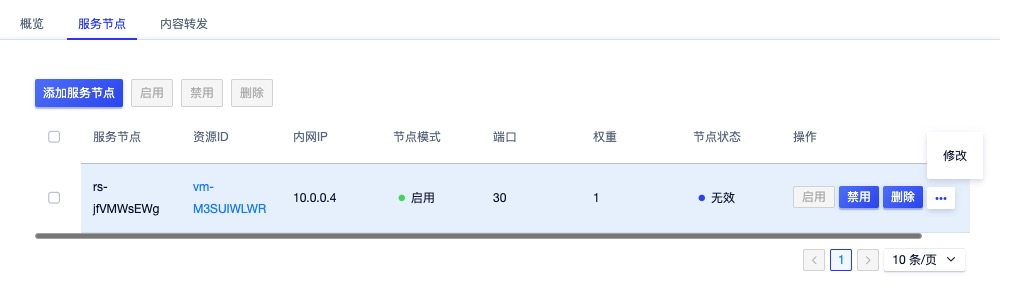
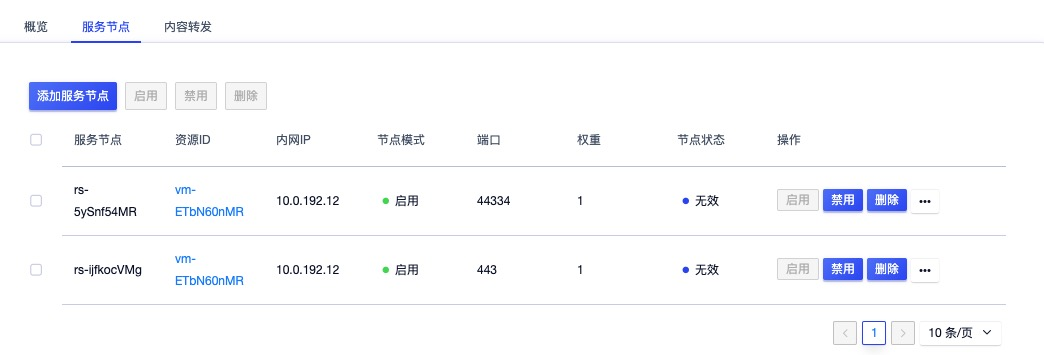
更新负载均衡操作手册

diff --git a/UserGuide/10 负载均衡.md b/UserGuide/10 负载均衡.md
@@ -283,29 +283,51 @@ VServer 即负载均衡的监听器，主要承载负载均衡业务网络的四
   * HTTP 健康检查路径：默认为 `/` ，可输入 Linux 格式的路径，只能使用字母、数字、和-/.%?#& 这些字符，必须以 `/` 开头，例如 `/data` ；
   * HTTP 健康域名：检查时校验请求的 HOST 字段中的域名，可输入标准域名用于校验请求 host 字段中携带的域名。
 
-  > HTTP 健康检查中的域名作用：某些应用服务器会对请求中的 host 字段做校验，即要求请求头中必须存在 host 字段。若在健康检查中配置了域名，则负载均衡会将域名配置到 host 字段中，并在健康检查时携带域名对后端服务节点进行检查，若健康检查请求被服务节点拒绝，则健康检查失败，即代表服务节点状态为异常；若应用服务器需要校验请求的host字段，则需要配置相关域名，确保健康检查正常工作。
+> HTTP 健康检查中的域名作用：某些应用服务器会对请求中的 host 字段做校验，即要求请求头中必须存在 host 字段。若在健康检查中配置了域名，则负载均衡会将域名配置到 host 字段中，并在健康检查时携带域名对后端服务节点进行检查，若健康检查请求被服务节点拒绝，则健康检查失败，即代表服务节点状态为异常；若应用服务器需要校验请求的host字段，则需要配置相关域名，确保健康检查正常工作。
 
 创建过程中 VServer 的资源状态为“创建中”，待状态更新为“运行”即代表创建成功，用户可通过 VServer 列表及详情查看已添加的 HTTP 监听器，并可查看 VServer 下所有服务节点的健康状态。
 
 #### 10.3.1.4 添加 HTTPS 监听器
 
-
-
-
-
-内容转发规则是指在七层 HTTP 负载均衡服务模式下，根据请求的域名和 URL 进行精准的请求分地，请匹配的 URL 转发至规则指定的服务节点。
-
-
-
-
-
-
+用户为负载均衡实例创建一个基于 HTTP 协议的监听器，提供基于 HTTPS 协议的负载均衡业务服务，本文以创建基于 SSL 证书加密的 `HTTPs:443` （WEB）服务为例进行创建。用户可通过负载均衡详情页面 VServer 左侧导航栏的【添加】进入 VServer 监听器的创建向导页面，如下图所示：
 
 ![httpsvs](httpsvs.png)
 
+根据向导页面配置 VServer 监听器，包括协议、端口、SSL 解析模式、服务器证书、客户端证书、负载均衡算法、会话保持、连接空闲超时及健康检查：
+
+* 监听协议：负载均衡业务的网络协议，支持 TCP、UDP、HTTP、HTTPS ，本示例中选择 HTTPS 。
+
+* 端口：负载均衡业务对外或对内提供服务时用来接收请求的应用端口，端口范围为 `1~65535` ，本示例使用 443 端口，用于提供基于 HTTPS 协议且使用 SSL 证书加密认证的高安全、高可用 WEB 服务。
+
+  > 323、9102、9103、9104、9105、60909、60910 等端口被占用，在任何协议下均不可使用。
+
+* SSL 解析模式：HTTPS 协议的 SSL 证书认证的解析模式，支持单向认证和双向认证，通常选择单向认证。
+
+  * 单向认证：由网站服务端提供  SSL 证书并进行身份验证，保证 HTTPS 网站的数据安全性，任何访问网站的用户无需拥有 CA 证书即可随时访问网站；
+  * 双向认证：网站服务端和用户双方均需提供 SSL 证书，只有提供 CA 证书的客户端才允许访问网站。
+
+* 服务器证书：用户证明服务器的身份，HTTPS 检查服务器发送的证书是否是由自己信赖的中心签发。
+  * 部署并配置于负载均衡服务器中，为负载均衡后端服务节点的网站提供 SSL 服务器证书及验证。
+  * 在创建时需提前上传服务器证书到平台，可通过新建服务器证书进行上传，详见 [SSL 证书管理](#_106-SSL-证书管理)。
+
+* 客户端证书：客户端CA公钥证书用于验证客户端证书的签发者，HTTPS 双向认证中需验证客户端提供的证书，才可成功建立连接。
+  * 网站服务器用 CA 证书验证客户端证书的签名，如果没有通过验证，则拒绝连接；
+  * 在创建时需提前上传客户端证书到平台，可通过新建客户端证书进行上传，详见 [SSL 证书管理](#_106-SSL-证书管理)。
+* 负载均衡算法：负载均衡分发请求到后端 RealServer 的调度计算策略，支持加权轮询、最小连接数和基于源地址三种算法。
+
+* 会话保持：针对 HTTP 和 HTTPS 协议，提供 Cookie 植入的方式进行会话保持，支持自动生成KEY 和自定义 KEY。选择自动生成 KEY 则由平台自动生成 Key 进行植入，选择自定义 Key 时需输入 KEY 值（只能输入数字、字母及_字符）。
+* 连接空闲超时：客户端至负载均衡的连接空闲超时限制，范围为 `1~86400` 秒。默认值为 60 秒，即在 60 秒内客户端对负载均衡一直无访问请求，平台会自动中断连接。
+* 健康检查：根据规则对后端服务节点进行健壮性检查，可自动检测并隔离服务不可用的后端服务节点。HTTP协议端检查和 HTTP 检查两种方式，其中 HTTP 检查支持按 URL 路径和请求 HOST 头中携带的域名进行健康检查，筛选健康节点。
+  * HTTP 健康检查路径：默认为 `/` ，可输入 Linux 格式的路径，只能使用字母、数字、和-/.%?#& 这些字符，必须以 `/` 开头，例如 `/data` ；
+  * HTTP 健康域名：检查时校验请求的 HOST 字段中的域名，可输入标准域名用于校验请求 host 字段中携带的域名。
+
+创建过程中 VServer 的资源状态为“创建中”，待状态更新为“运行”即代表创建成功，用户可通过 VServer 列表及详情查看已添加的 HTTPS 监听器，并可查看 VServer 下所有服务节点的健康状态。
+
+> VServer 监听器配置完成后，需添加业务虚拟机至监听器的服务节点中才可正常提供服务。 HTTP 和 HTTPS 协议的监听器可根据需求配置内容转发规则，根据请求的域名和 URL 进行精准的请求分发。
+
 ### 10.3.2 查看 VServer
 
-通过负载均衡详情页面进入 VServer 资源控制台，可查看当前负载均衡实例中已拥有 VServer 资源的列表，同时可通过点击列表上 的名称，进入 VServer 的详情页面，用于查看 VServer 的详细信息、监控信息、服务节点管理及内容转发管理（针对 HTTP 协议）。
+通过负载均衡详情页面进入 VServer 资源控制台，可查看当前负载均衡实例中已拥有 VServer 列表信息及所属服务节点的健康状况，并可通过列表名称切换 VServer 在右侧概览中查看 VServer 的基本信息及监控信息，同时可切换至服务节点和内容转发标签页进行服务节点和内容转发规则的管理。
 
 #### 10.3.2.1 VServer 列表
 
@@ -313,11 +335,11 @@ VServer 列表页面可查看当前负载均衡实例中已拥有的 VServer 资
 
 ![vslist](vslist.png)
 
-- 协议端口：当前 VServer 监听器协议和端口，是负载均衡处理请求的入口依据；
-- 状态：当前 VServer 监听器的服务状态，包括绿色、黄色和红色；
+- 协议端口：VServer 监听器协议和端口，是负载均衡处理请求的入口依据；
+- 状态：VServer 监听器的服务状态，包括绿色、黄色和红色；
   - 绿色：VServer 中添加的所有服务节点的健康状态均为正常；
   - 黄色：VServer 中添加的部分服务节节异常；
-  - 红色：VServer 中添加的所有服务节点健康状态为异常，即代表 VServer 停止工作。
+  - 红色：VServer 中添加的所有服务节点健康状态为异常，即代表 VServer 停止工作；若未添加任何服务节点，VServer 的默认状态为全部异常。
 
 在列表页可对 VServer 进行添加、修改及删除操作，通过点击 VServer 可在右侧查看当前 VServer 的详细信息，点击状态按钮可显示状态描述。
 
@@ -327,125 +349,125 @@ VServer 列表页面可查看当前负载均衡实例中已拥有的 VServer 资
 
 ![vsdetails](vsdetails.png)
 
-- 基本信息：当前 VServer 的基本信息，包括ID、协议端口、均衡算法、会话保持、会话保持 Key(若有)、连接空闲超时、健康检查、HTTP 检查路径(若有)、HTTP 检查域名(若有)、运行状态、VS 状态、告警模板及创建时间等信息，其中：
-  - 协议端口：当前 VServer 创建时指定的监听协议和端口；
-  - 负载均衡算法：当前 VServer 创建时指定的负载均衡算法，包括最小连接数、源地址、加权轮询；
-  - 会话保持：会话保持的开关和类型；
-    - 当监听器协议为 UDP 时，展示为开启或关闭；
-    - 当监听器协议为 HTTP 时 ，展示为关闭、自动生成KEY 、自定义 KEY ；
-    - 当监听器协议为 TCP 时，不显示会话保持信息。
-  - 会话保持 KEY ：HTTP 协议时选择并配置的会话保持 KEY ，仅当协议为 HTTP 时展示；
-  - 连接空闲超时： 负载均衡的连接空闲超时时间，单位为秒，默认值为 60s ；
-  - 健康检查：负载均衡的健康检查类型，当前 VServer 创建时指定的健康检查类型，包括端口检查和 HTTP 检查；
-  - HTTP 检查路径：HTTP 健康检查的路径。
-  - HTTP 检查域名：HTTP 健康检查时校验请求的 HOST 字段中的域名。
-  - 运行状态：当前 VServer 监听器的服务状态，包括全部异常、部分异常、全部正常；
-  - VS 状态：当前 VServer 监听器资源的状态，包括可用、更新中、已删除；
-  - 告警模板：当前 VServer 绑定的监控告警模板，若未绑定则展示为空。
-- 监控信息：当前 VServer 实例相关监控图表及信息，包括连接数、HTTP 2XX 、HTTP 3XX 、HTTP 4XX 、HTTP 5XX ，支持查看 1 小时、6 小时、12 小时、1 天及自定义时间的监控数据；
-- 服务节点：当前 VServer的服务节点生命周期管理，包括服务节点的添加、查看、启用、禁用及删除等；
-- 内容转发规则：当前 VServer 配置的内容转发规则生命周期管理，包括转发规则的添加、查看、修改及删除。
+**（1）基本信息**
+
+VServer 的基本信息，包括 ID、协议端口、负载均衡算法、会话保持、会话保持 Key、连接空闲超时、健康检查方式、运行状态、VS 状态、告警模板及创建时间等信息。若 VServer 监听协议为 HTTP/HTTPS ，可查看 HTTP 健康检查路径、HTTP 检查域名、SSL解析模式、服务器证书及客户端证书等信息。
+
+- 会话保持：会话保持的开关和类型。UDP 协议值为开启或关闭，HTTP/HTTPS 协议值为关闭、自动生成 KEY 或自定义 KEY 。
+- 运行状态：VServer 监听器的服务状态，包括全部异常、部分异常、全部正常。
+- VS 状态：VServer 监听器资源的状态，包括可用、更新中、已删除。
+- 告警模板：VServer 绑定的监控告警模板，若未绑定则展示为无。
+- 服务器证书/客户端证书：HTTPS 监听器 SSL 证书名称，可通过查看证书查询证书的内容。
+
+**（2）监控信息**
+
+VServer 实例相关监控图表及信息，包括新建连接数、HTTP 2XX 、HTTP 3XX 、HTTP 4XX 、HTTP 5XX ，支持查看 1 小时、6 小时、12 小时、1 天及自定义时间的监控数据。
+
+**（3）服务节点和内容转发**
+
+- 服务节点：VServer的服务节点生命周期管理，包括服务节点的添加、查看、修改、启用、禁用及删除等，详见[服务节点管理](#_104-服务节点管理)。
+- 内容转发规则：当前 VServer 配置的内容转发规则生命周期管理，包括转发规则的添加、查看、修改及删除，详见[内容转发规则管理](#_105-内容转发规则管理)。
 
 ### 10.3.3 修改 VServer
 
-平台支持修改已创建的 VServer 监听器配置，可修改项包括负载均衡算法、会话保持、连接空闲超时及健康检查配置信息。可通过 VServer 列表上的 “修改” 按钮对一个 VServer 进行修改操作，如下图所示：
+用户通过控制台修改 VServer 监听器配置，如修改监听器的负载均衡算法、会话保持、连接空闲超时及健康检查配置信息，若协议为 HTTPS 可更换监听器的 SSL 解析模式及 SSL 证书。可通过 VServer 列表上的 “修改” 按钮进行修改操作，如修改向导所示：
 
 ![updatevs](updatevs.png)
 
-修改配置与创建 VServer 时一致，修改成功后，平台会立即根据新配置重新对服务节点进行健康检查，同时会根据新修改的调度算法分发到达负载均衡的请求。
-
-点击确定后，平台会返回至 VS 列表及详情页面，VS 状态由 “运行” 变更为 “更新中” ，更新成功后流转为 “运行” ，即代表更新成功，可通过详情页面查看新修改的配置。
+修改配置的参数设置与创建 VServer 时一致，不支持修改 VServer 的协议和端口。修改过程中 VS 状态由 “运行” 变更为 “更新中” ，更新成功后流转为 “运行” ，即代表更新成功，可通过详情页面查看新修改的配置。修改成功后，平台会立即根据新配置重新对服务节点进行健康检查，同时会根据新修改的调度算法分发请求。
 
 > 修改 VServer 的调度算法、会话保持、连接空闲超时，仅对新连接生效，不影响已建立连接的服务。
 
 ### 10.3.4 修改告警模板
 
-修改告警模板是对 VServer 的监控数据进行告警的配置，通过告警模板定义的指标及阈值，可在 VServer 相关指标故障及超过指标阈值时，触发告警，通知相关人员进行故障处理，保证 VServer 及业务的网络通信。通过点击 VServer 资源控制台操作中的“修改告警模板”来进行操作，点击后弹出更改告警模板页面，可选择指定告警模板进行关联。具体参数如下：
+修改告警模板是对 VServer 的监控数据进行告警的配置，通过告警模板定义的指标及阈值，可在 VServer 相关指标故障及超过指标阈值时，触发告警，通知相关人员进行故障处理，保证负载均衡及业务的网络通信。
 
-- 资源 ID ：当前需要添加或修改告警模板的 VServer ID ；
-- 资源类型：当前需要添加或修改告警模板的资源类型；
-- 告警模板：需要变更的告警模板，一次仅可选择一个；
-
-> 若系统提供的默认告警模板无法满足需求时，可前往“告警模板”页面进行添加和配置。
+用户可通过 VServer 详情概览页的操作项进行告警模板修改操作，在修改向导页面中选择新告警模板进行修改。VServer 和 负载均衡器可共用一个负载均衡监控告警模板，即在负载均衡的告警模板中即可定义 LB 实例的指标告警策略，同时可定义 VServer 的监控指标告警，可根据需求自定义告警模板的规则。
 
 ### 10.3.5 删除 VServer
 
-用户可通过控制台或 API 的方式删除不需要的 VServer 资源，仅当 VServer 中不存在后端 RealServer 资源时才可进行删除操作。VServer 成功删除后不可恢复，在删除时请检查并确认是否有必要删除 VServer 资源。在控制台 VServer 列表页面可查看删除过程，待被删除的 VServer 资源被清空时，代表删除成功。
+用户可通过控制台或 API 的方式删除 VServer 资源，删除时会自动清除 VServer 下已创建的内容转发规则策略，同时会自动解绑已关联的 SSL 证书，仅当 VServer 中不存在后端 RealServer 资源时才可进行删除操作。
+
+![rmvs](rmvs.png)
+
+VServer 删除后不可恢复，在删除时需检查并确认是否有必要删除 VServer 资源，控制台 VServer 标签页可查看删除过程，待被删除的 VServer 资源被清空时，代表删除成功。
 
 ## 10.4 服务节点管理
 
-服务节点指负载均衡架构中的后端 RealServer ，是用来提供真正业务并处理业务请求的服务池，一般是由多台虚拟机集群构成。
+服务节点指负载均衡架构中的后端真实服务器，即 RealServer ，用于提供真正业务并处理业务请求的服务池，一般是由多台虚拟机集群构成。
 
-- 通常添加服务节点是需要在 VServer 监听器创建完成后才可进行添加；
-- 服务节点添加后，负载均衡即通过健康检查 Check 服务节点的业务是否正常；
-- 若业务节点无法正常处理 VServer 发送的请求，平台会提示服务节点状态为失效，需检测服务节点中部署的业务状况；
+- 添加服务节点需要在 VServer 监听器创建完成后才可进行添加。
+- 服务节点添加后，负载均衡即通过健康检查 Check 服务节点的业务是否正常。
+- 若业务节点无法正常处理 VServer 发送的请求，平台会提示服务节点状态为无效，需检测服务节点中部署的业务状况。
 - 若业务节点可正常处理 Check 请求，即服务节点状态为有效，则代表负载均衡可正常工作。
 
 ### 10.4.1 添加服务节点
 
-添加服务节点前，需确保服务节点上业务正常运行且可进行正常访问。用户可通过 VServer 详情页面进入“**服务节点**”资源控制台，点击“**添加服务节点**”进行后端 RealServer 的添加。添加服务节点时，仅可选择与负载均衡实例在相同 地域及相同 VPC 网络的虚拟机。如下图所示：
+添加服务节点前，需确保服务节点上业务正常运行且可进行正常访问。可通过 VServer 详情页面进入“**服务节点**”资源控制台，点击“**添加服务节点**”进行后端 RealServer 的添加。添加服务节点时，仅可选择与负载均衡实例在相同 数据中心且 VPC 网络相同的虚拟机。如下图所示：
 
 ![creaters](creaters.png)
 
-* 虚拟机：即需要添加至负载均衡当前 VServer 服务节点的虚拟机，支持指定服务节点暴露的端口及权重；
-* 端口：后端服务节点暴露的服务端口，如 VServer 监听 80 ，服务节点监听 8080 端口，则在端口处输入 8080 即可，负载均衡会将到达 VServer 80  端口的请求分发至服务节点的 8080 端口；
+* 虚拟机：即需要添加至负载均衡当前 VServer 服务节点的虚拟机，支持指定服务节点暴露的端口及权重。
+* 端口：后端服务节点暴露的服务端口，如 VServer 监听 80 ，服务节点监听 8080 端口，则在端口处输入 8080 即可，负载均衡会将到达 VServer 80  端口的请求分发至服务节点的 8080 端口。
 * 权重：后端服务节点的权重，范围为 1~100 。数字越大即代表权重越高，负载均衡会优先将请求分发至权重较高的服务节点，默认值为 1 。
 
 > 支持添加同一个虚拟机的多个端口到 VServer 的服务节点，即将 VServer 监听器端口的请求分别转发至同一个服务节点的多个端口上，满足不同应用场景的负载分发需求。
 
 添加服务节点后，可在服务节点资源列表页面查看添加服务节点过程，待服务节点的状态为“有效”或“无效”时，即代表添加服务节点成功。若服务节点状态为无效，则需要检测服务节点中业务的运行状态，服务状态“有效”的前提是通过虚拟机的网络地址及健康检查方式可正常访问业务。
 
-**UCLoudStack 的负载均衡服务的服务模式为 NAT 请求代理模式，若添加虚拟机至提供公网的负载均衡后端，无需在后端服务节点上做任何处理即可通过外网直接访问至服务节点**
+**负载均衡服务的服务模式为 NAT 请求代理模式，若添加虚拟机至提供外网的负载均衡后端，无需在后端服务节点上配置环回服务地址即可通过外网直接访问至服务节点。**
 
 ### 10.4.2 查看服务节点
 
-通过 VServer 详情页面的"服务节点"标签进入服务节点控制台，可查看当前 VServer 监听器后端已添加的服务节点资源列表。服务节点资源列表页面可查看当前 VServer 后端已添加的服务节点列表，包括服务节点 ID、资源ID、内网 IP、端口、权重、节点模式、节点状态及操作项，如下图所示：
+通过 VServer 详情页面的"服务节点"标签页，可查看 VServer 监听器后端已添加的服务节点资源列表信息，包括服务节点 ID、资源ID、内网 IP、端口、权重、节点模式、节点状态及操作项，如下图所示：
 
 ![rslist](rslist.png)
 
-- 服务节点：当前服务节点的全局 RS 唯一标识符；
-- 资源ID：当前服务节点已绑定的虚拟机名称和 ID；
-- IP/端口：当前服务节点的内网 IP 地址及配置的服务端口；
-- 权重：当前服务节点配置的转发权重；
-- 节点模式：当前服务节点的启用和禁用模式；
-- 状态：当前服务节点的业务负载状态，包括有效、无效；
+- 服务节点：当前服务节点的全局 RS 唯一标识符。
+- 资源ID：当前服务节点已绑定的虚拟机名称和 ID。
+- IP/端口：当前服务节点的内网 IP 地址及配置的服务端口。
+- 权重：当前服务节点配置的转发权重。
+- 节点模式：当前服务节点的启用和禁用模式。
+- 状态：当前服务节点的业务负载状态，包括有效、无效。
   - 有效：指当前服务节点中的业务服务正常运行且可通过网络进行访问，即服务节点为健康；
-  - 无效：指当前服务节点中的业务服务未正常运行或无法通过网络进行访问，即代表服务节点不不健康；
-- 操作：对单个服务节点的删除操作，包括启用、禁用、修改、删除等操作；
+  - 无效：指当前服务节点中的业务服务未正常运行或无法通过网络进行访问，即代表服务节点不不健康。
 
-支持服务节点的批量启用、批量禁用及批量删除操作，同时可通过搜索框对服务节点的资源列表进行搜索和筛选，支持模糊搜索。
+列表上操作项是指对单个服务节点的操作，包括启用、禁用、删除及修改等，支持服务节点的批量启用、批量禁用及批量删除操作。
 
 ### 10.4.3 启用/禁用
 
-用户可以对添加至负载均衡 VServer 的服务节点进行启用和禁用操作，且支持多台批量操作。
+用户对添加至负载均衡 VServer 的服务节点进行启用和禁用操作，支持批量启用和禁用。
 
-* 禁用：禁用一台服务节点，禁用后负载均衡将停止向该服务节点分发请求，并停止对其健康检查；
-* 启用：启用一台服务节点，启用后负载均衡将对其进行健康检查，若健康检查通过则分根据调度算法，分发新的请求至该服务节点；
-* 仅当节点模式为启用时才可进行禁用操作，仅当节点模式为禁用时，才可进行启用操作。
+* 禁用：禁用服务节点，禁用后负载均衡将停止向该服务节点分发请求，并停止对其健康检查；
+* 启用：启用服务节点，启用后负载均衡将对其进行健康检查，若健康检查通过则分根据调度算法，分发新的请求至该服务节点；
+* 仅当节点模式为启用时才可进行禁用操作；
+* 仅当节点模式为禁用时，才可进行启用操作。
 
 ### 10.4.4 修改服务节点
 
-用户可对一个添加至负载均衡 VServer 服务节点的服务端口及权重进行修改，如下图所示：
+用户可对负载均衡 VServer 服务节点的服务端口及权重进行修改，如下图所示：
 
 ![updaters](updaters.png)
 
-修改端口和权重不会影响已建立的业务连接，仅对新负载均衡新分发请求生效。点击确定后，即返回至服务节点列表页面，节点状态由 “有效” 或 “无效” 流转为“更新中” ，待修改成功后，重新流转回“有效”或“无效” ，有效则代表健康检查成功，服务节点可正常提供服务。
+修改端口和权重不会影响已建立的业务连接，仅对负载均衡新分发请求生效。点击确定后，即返回至服务节点列表页面，节点状态由 “有效” 或 “无效” 流转为“更新中” ，待修改成功后，重新流转回“有效”或“无效” ，有效则代表健康检查成功，服务节点可正常提供服务。
 
 ### 10.4.5 删除服务节点
 
-若需要对一个服务节点的业务进行变更或需从负载均衡后端服务节点下线，可以通过删除服务节点功能进行下线操作，下线后不影响虚拟机本身的运行和使用。用户可通过服务节点列表操作项中的“删除”进行服务节点的删除，删除后可重新添加至负载均衡实例。
+如需对一个服务节点的业务进行变更或从负载均衡后端服务节点下线，可通过删除服务节点功能进行下线操作，下线后不影响虚拟机本身的运行和使用。用户可通过服务节点列表操作项中的“删除”进行服务节点的删除，删除后可重新添加至负载均衡实例。
 
-> 若负载均衡 VServer 的监听协议为 HTTP 且已配置内容转发规则 ，则删除服务节点时，会自动解绑内容转发规则。
+![rmrs](rmrs.png)
+
+> 若负载均衡 VServer 的监听协议为 HTTP/HTTPS 且已配置内容转发规则 ，则删除服务节点时，会自动解绑内容转发规则。
 
 ## 10.5 内容转发规则管理
 
-平台支持为 HTTP 监听器添加转发规则，支持为域名+ URL 路径的请求分发至不同的服务节点，满足精准负载分发业务需求。仅当负载均衡的 VServer 监听协议为 HTTP 时，才可进行内容转发规则的配置，包括内容转发规则的添加、查看、修改及删除。
+平台支持为 HTTP 监听器添加转发规则，支持为域名+ URL 路径的请求分发至不同的服务节点，满足精准负载分发业务需求。仅当负载均衡的 VServer 监听协议为 HTTP 或 HTTPS 时，才可进行内容转发规则的配置，包括内容转发规则的添加、查看、修改及删除。
 
 ### 10.5.1 添加内容转发规则
 
 用户可通过 VServer 详情页面进入“**内容转发**”资源标签页，点击“**添加内容转发**”进行内容转发规则的添加。平台会自动生成一条默认内容转发规则，即代表所有请求默认转发至所有已添加的服务节点。
 
-内容转发规则中的服务节点，仅可从当前 VServer 已存在的服务节点中选择，支持为一个域名添加多个 URL 路径，如下图所示：
+内容转发规则中的服务节点，仅可从当前 VServer 已存在的服务节点中进行选择，支持为一个域名添加多个 URL 路径，如下图所示：
 
 ![createpolicy](createpolicy.png)
 
@@ -455,9 +477,7 @@ VServer 列表页面可查看当前负载均衡实例中已拥有的 VServer 资
 * URL 路径：内容转发规则匹配的 URL 路径，URL 必须属于一个域名；
   * URL 长度限制为 1~30 个字母、数字和` -/.%?#&`这些字符， 且必须以 `/` 开头 ；
   * URL 可以为 `/` ，代表请求该域名的根目录时，转发请求至匹配的服务节点；
-* 服务节点：当前内容转发规则所对应的服务节点，即当请求匹配 域名+路径 时，将请求转发发配置的服务节点
-
-> 内容转发规则中的服务节点必须为 VServer 中已添加的服务节点。
+* 服务节点：当前内容转发规则所对应的服务节点，即当请求匹配 域名+路径 时，将请求转发发配置的服务节点，转发规则中的服务节点必须为 VServer 中已添加的服务节点。
 
 点击确定后，返回内容转发规则的列表，可查看创建内容转发规则的过程，待添加的内容转发规则状态由 “创建中” 流转为 “有效” 时，即代表创建成功。
 
@@ -474,9 +494,8 @@ VServer 列表页面可查看当前负载均衡实例中已拥有的 VServer 资
 * 转发节点：匹配当前内容转发规则时，请求分发的服务节点。
 * 节点数量：当前转发规则已添加的服务节点数量。
 * 状态：当前转发规则的状态，包括创建中、有效和删除中。
-* 操作：对域名或单条转发规则的修改及删除操作。
 
-点击域名右侧的修改和删除，即修改和删除整个域名及包括的所有转发规则；点击单条 URL 规则的修改和删除，即仅对单条规则进行删除和修改操作。
+列表上操作项是指对域名或单条转发规则的修改及删除操作。点击域名右侧的修改和删除，即修改和删除整个域名及包括的所有转发规则；点击单条 URL 规则的修改和删除，即仅对单条规则进行删除和修改操作。
 
 > 默认转发规则仅支持查看，不支持修改和删除，默认转发规则的节点数量即 VServer 中所包含的所有服务节点数量。
 
@@ -490,6 +509,17 @@ VServer 列表页面可查看当前负载均衡实例中已拥有的 VServer 资
 
 ### 10.5.4 删除内容转发规则
 
-用户可通过控制台或 API 的方式删除不需要的内容转发规则，删除内容转发规则会自动解绑已关联的后端服务节点。内容转发规则被删后，即即直接销毁，请在删除前确保负载均衡转发规则无业务流量的负载请求，否则可能影响业务的正常访问。如下图所示，删除域名时即直接删除该域名下所包括的所有 URL 规则信息：
+用户可通过控制台或 API 的方式删除不需要的内容转发规则，删除内容转发规则会自动解绑已关联的后端服务节点。内容转发规则被删后，即即直接销毁，在删除前需确保负载均衡转发规则无业务流量的负载请求，否则可能影响业务的正常访问。如下图所示，删除域名时即直接删除该域名下所包括的所有 URL 规则信息：
 
 ![rmpolicy.png](rmpolicy.png)
+
+## 10.6 SSL 证书管理
+
+
+
+
+
+
+
+
+
